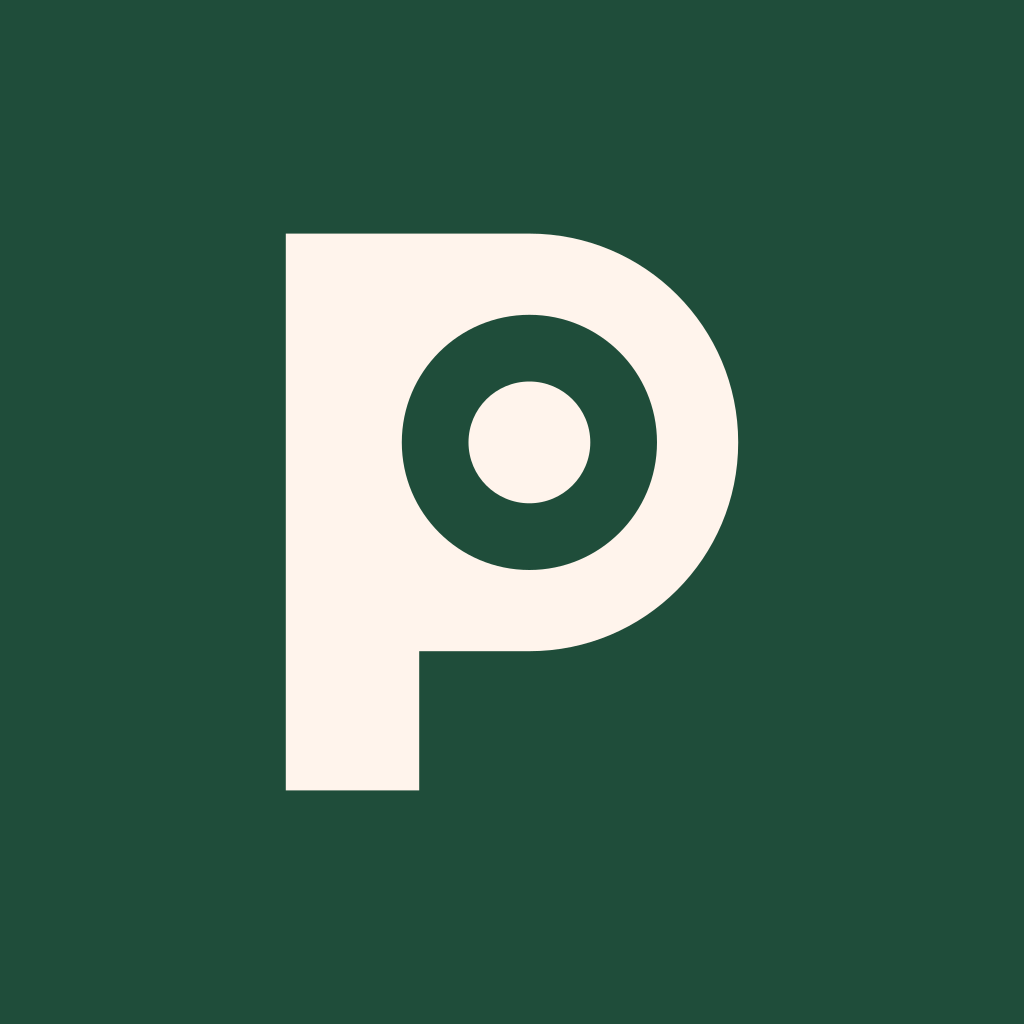
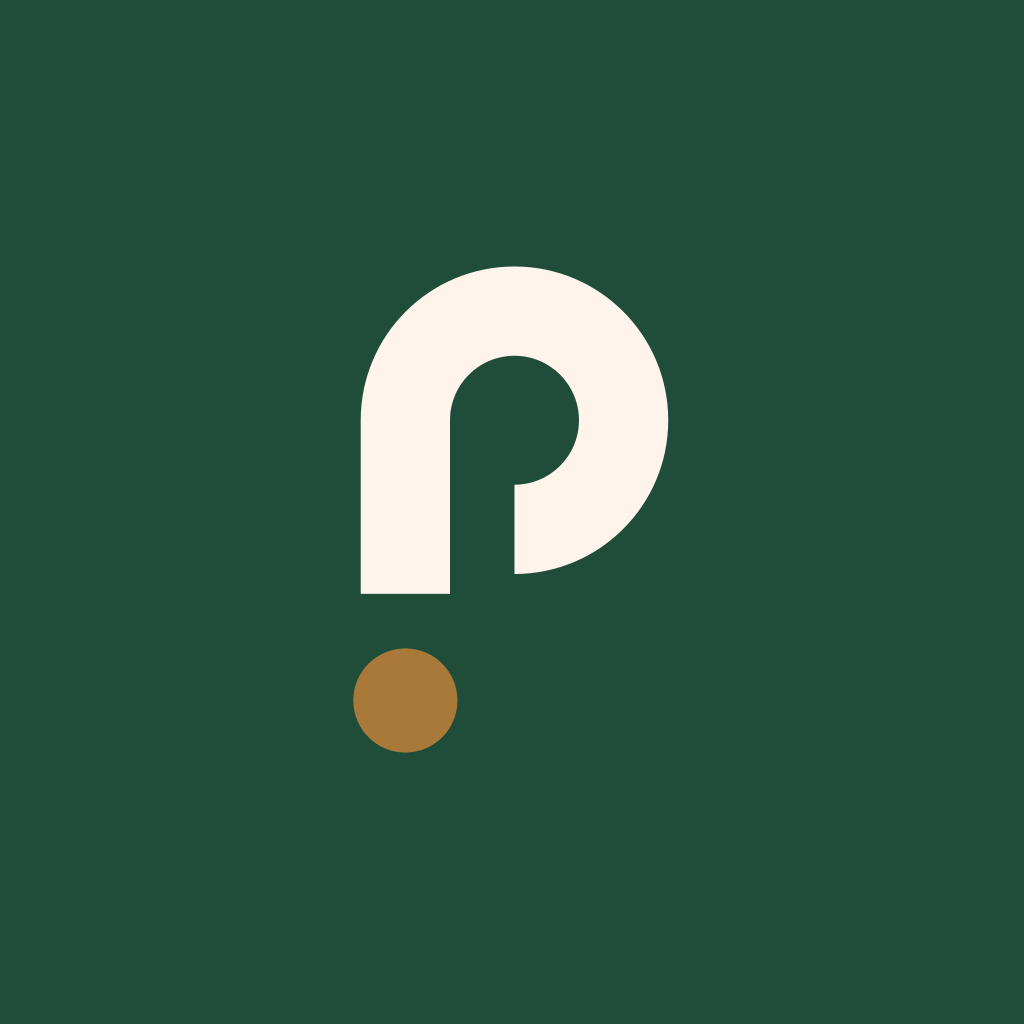
Brand: Ask P mark and logotype in the iOS app
The owner chose direction D: an open P that is also a question mark,
forest green with a brass dot (the asker). build-masters.py now draws it,
with a small cut (shorter stem, bigger dot) that keeps the dot apart at
16 px. PlugMark and PlugLogotype imagesets, the launch image, and the light
(forest), dark (espresso) and tinted app icons are regenerated with the
repo pipeline; PlugMarkShape follows the new geometry. The logotype is
cropped to its ink and set at 28pt. Web favicons are not regenerated.

State: P3.S6

Changed region(s): [[0.2812, 0.2188, 0.7188, 0.7812]]

diff --git a/ios/Plug/Core/DesignSystem/PlugTokens.swift b/ios/Plug/Core/DesignSystem/PlugTokens.swift
@@ -157,7 +157,8 @@ extension View {
 
 // MARK: - The mark
 
-/// The PLUG logotype, the same drawn artwork as the website (design/brand), set in espresso.
+/// The PLUG logotype (design/brand/plug-logotype.svg): the green and brass Ask P mark and "plug"
+/// in espresso, cropped to its ink so it aligns with the text column.
 /// A fixed-size brand lockup: `size` is its height, and content around it scales instead.
 struct PlugLogotype: View {
     var size: CGFloat = PlugTokens.Layout.mark
@@ -170,11 +171,12 @@ struct PlugLogotype: View {
 }
 
 struct PlugWordmark: View {
-    var body: some View { PlugLogotype(size: PlugTokens.Layout.logo) }
+    var body: some View { PlugLogotype(size: PlugTokens.Layout.mark) }
 }
 
-/// design/brand/plug-mark.svg on its 256 grid: a stem joined to a bowl, with the counter cut
-/// out (even-odd fill). The dot inside the counter is drawn separately: it is you.
+/// design/brand/plug-mark.svg on its 256 grid ("Ask P"): an open P that is also a question
+/// mark. The stem runs x 67..103 and the bowl is a 270 degree arc, outer radius 62 and inner 26,
+/// centred at (129, 91). The dot under the stem is drawn separately: it is the asker.
 struct PlugMarkShape: Shape {
     func path(in rect: CGRect) -> Path {
         let unit = min(rect.width, rect.height) / 256
@@ -182,31 +184,30 @@ struct PlugMarkShape: Shape {
             CGPoint(x: rect.minX + x * unit, y: rect.minY + y * unit)
         }
         var path = Path()
-        path.move(to: point(50, 32))
-        path.addLine(to: point(134, 32))
-        path.addRelativeArc(center: point(134, 104), radius: 72 * unit,
-                            startAngle: .degrees(-90), delta: .degrees(180))
-        path.addLine(to: point(96, 176))
-        path.addLine(to: point(96, 224))
-        path.addLine(to: point(50, 224))
+        path.move(to: point(67, 161))
+        path.addLine(to: point(67, 91))
+        path.addRelativeArc(center: point(129, 91), radius: 62 * unit, startAngle: .degrees(180), delta: .degrees(270))
+        path.addLine(to: point(129, 117))
+        path.addRelativeArc(center: point(129, 91), radius: 26 * unit, startAngle: .degrees(90), delta: .degrees(-270))
+        path.addLine(to: point(103, 161))
         path.closeSubpath()
-        path.addEllipse(in: CGRect(origin: point(90, 60), size: CGSize(width: 88 * unit, height: 88 * unit)))
         return path
     }
 }
 
-/// The mark with its dot, still. `dot` colours the dot (you) so it can read on any surface.
+/// The mark with its dot, still: forest green P and brass dot on light surfaces. On green or
+/// espresso pass `ink: paper` and keep the brass dot.
 struct PlugMark: View {
-    var ink: Color = PlugTokens.Color.ink900
-    var dot: Color = PlugTokens.Color.ink900
+    var ink: Color = PlugTokens.Color.brandGreen
+    var dot: Color = PlugTokens.Color.brandBrass
 
     var body: some View {
         GeometryReader { geometry in
             let unit = min(geometry.size.width, geometry.size.height) / 256
             ZStack(alignment: .topLeading) {
-                PlugMarkShape().fill(ink, style: FillStyle(eoFill: true))
+                PlugMarkShape().fill(ink)
                 Circle().fill(dot).frame(width: 42 * unit, height: 42 * unit)
-                    .position(x: 134 * unit, y: 104 * unit)
+                    .position(x: 85 * unit, y: 204 * unit)
             }
         }
         .aspectRatio(1, contentMode: .fit)

diff --git a/ios/Plug/Features/Authentication/WelcomeView.swift b/ios/Plug/Features/Authentication/WelcomeView.swift
@@ -64,7 +64,7 @@ struct WelcomeView: View {
                 .buttonStyle(.plain)
                 .accessibilityLabel("Back to welcome")
                 Spacer()
-                Button { page = .welcome; model.startOver() } label: { PlugLogotype(size: PlugTokens.Layout.logo) }
+                Button { page = .welcome; model.startOver() } label: { PlugLogotype(size: PlugTokens.Layout.mark) }
                     .buttonStyle(.plain).accessibilityLabel("PLUG home")
                     .frame(minHeight: PlugTokens.minTouchTarget)
                 Spacer()
@@ -101,7 +101,7 @@ struct WelcomeView: View {
                 .frame(maxWidth: .infinity)
                 .background(PlugTokens.Color.sunk.ignoresSafeArea(edges: .top))
             VStack(alignment: .leading, spacing: PlugTokens.Space.s4) {
-                PlugLogotype(size: PlugTokens.Layout.logo).accessibilityAddTraits(.isHeader)
+                PlugLogotype(size: PlugTokens.Layout.mark).accessibilityAddTraits(.isHeader)
                     .padding(.bottom, PlugTokens.Space.s2)
                 // What the app does leads; the tested tagline follows as its own text, words unchanged.
                 Text("Ask for a service, or about a place nearby.")

diff --git a/ios/Plug/App/PlugApp.swift b/ios/Plug/App/PlugApp.swift
@@ -34,7 +34,7 @@ struct PlugApp: App {
     }
 }
 
-/// The cold start: it begins where the static launch screen ends (the espresso mark on cream)
+/// The cold start: it begins where the static launch screen ends (the green and brass mark on cream)
 /// and fades away quickly. It never takes a touch or VoiceOver focus, and it does not run for UI
 /// tests or under Reduce Motion (the launch screen then simply gives way to the app).
 private struct LaunchSplash: View {
@@ -267,7 +267,7 @@ struct ProfileView: View {
                 VStack(alignment: .leading, spacing: PlugTokens.Space.s6) {
                     PageTitle(title: "Profile")
                     HStack(alignment: .center, spacing: PlugTokens.Space.s4) {
-                        PlugMark(ink: PlugTokens.Color.paper, dot: PlugTokens.Color.paper)
+                        PlugMark(ink: PlugTokens.Color.paper)
                             .padding(PlugTokens.Space.s4 + 2)
                             .frame(width: PlugTokens.Layout.portrait, height: PlugTokens.Layout.portrait)
                             .background(PlugTokens.Color.brandGreen, in: Circle())

diff --git a/ios/Plug/Features/Requests/AskView.swift b/ios/Plug/Features/Requests/AskView.swift
@@ -127,7 +127,7 @@ struct AskView: View {
     private var masthead: some View {
         HStack(alignment: .center) {
             // One logotype everywhere, the app and the website (owner decision, 2026-10-08).
-            PlugLogotype(size: PlugTokens.Layout.logo)
+            PlugLogotype(size: PlugTokens.Layout.mark)
             Spacer()
         }
         .padding(.top, PlugTokens.Space.s1)

diff --git a/design/brand/build-masters.py b/design/brand/build-masters.py
@@ -1,53 +1,56 @@
-"""Builds the PLUG brand SVG masters. Usage: python3 design/brand/build-masters.py design/brand "#2B1D14" "#FFF4EC" "#1F4D3A" (ink.900, paper, brand.green)"""
-import math, re, sys, pathlib
+"""Builds the PLUG brand SVG masters (direction D, "Ask P", chosen 2026-11-17).
+Usage: python3 design/brand/build-masters.py design/brand "#2B1D14" "#FFF4EC" "#1F4D3A" "#A9793A"
+(ink.900, paper, brand.green, brand.brass)"""
+import re, sys, pathlib
 
-if len(sys.argv) != 5 or not all(re.fullmatch(r"#[0-9A-Fa-f]{6}", c) for c in sys.argv[2:5]):
-    sys.exit('usage: build-masters.py <out-dir> <ink #RRGGBB> <paper #RRGGBB> <brand #RRGGBB>, e.g. design/brand "#2B1D14" "#FFF4EC" "#1F4D3A"')
-out = pathlib.Path(sys.argv[1]); INK, PAPER, BRAND = sys.argv[2], sys.argv[3], sys.argv[4]
+if len(sys.argv) != 6 or not all(re.fullmatch(r"#[0-9A-Fa-f]{6}", c) for c in sys.argv[2:6]):
+    sys.exit('usage: build-masters.py <out-dir> <ink> <paper> <green> <brass>, e.g. design/brand "#2B1D14" "#FFF4EC" "#1F4D3A" "#A9793A"')
+out = pathlib.Path(sys.argv[1]); INK, PAPER, GREEN, BRASS = sys.argv[2:6]
 
-# The mark: a P (stem + bowl, cap height 144 on a 256 grid, stem descends 48 below the bowl)
-# whose counter holds a dot: you, held by the P. Centred optically (x 50..206, y 32..224).
-OUTER = "M50 32H134A72 72 0 0 1 134 176H96V224H50Z"
-def hole(r): return f"M134 {104 - r}A{r} {r} 0 1 1 134 {104 + r}A{r} {r} 0 1 1 134 {104 - r}Z"
-MARK = (OUTER + hole(44), 21)      # ring 28, gap 23, dot 21
-SMALL = (OUTER + hole(41), 23)     # 24 px and below: thicker ring, bigger dot, gap 18
+# The mark: an open P that is also a question mark. One stroke width (36) and one radius pair:
+# the bowl is a 270 degree arc, outer radius 62 and inner 26, centred at (129, 91) on a 256
+# grid; the stem runs x 67..103. The brass dot under the stem is the asker.
+def p(stem_end):
+    return f"M67 {stem_end}V91A62 62 0 1 1 129 153V117A26 26 0 1 0 103 91V{stem_end}Z"
+def dot(cy, r):
+    return f"M{85 - r} {cy}A{r} {r} 0 1 0 {85 + r} {cy}A{r} {r} 0 1 0 {85 - r} {cy}Z"
+MARK = (p(161), dot(204, 21))      # gap 22 between stem and dot
+SMALL = (p(150), dot(207, 24))     # 24 px and below: shorter stem, bigger dot, gap 33, so the dot stays apart at 16 px
 
-def mark_body(fill, small=False):
-    d, r = SMALL if small else MARK
-    return f'<path fill="{fill}" fill-rule="evenodd" d="{d}"/><circle fill="{fill}" cx="134" cy="104" r="{r}"/>'
+def mark_body(fill, dot_fill=None, small=False):
+    letter, point = SMALL if small else MARK
+    return f'<path fill="{fill}" d="{letter}"/><path fill="{dot_fill or fill}" d="{point}"/>'
 
-def pt(cx, cy, R, deg):
-    a = math.radians(deg); return f"{cx + R * math.cos(a):.1f} {cy + R * math.sin(a):.1f}"
+# "plug" in Bricolage Grotesque (OFL), outlined, so no font ships. Baseline at y 177.
+WORD = ['M38.3336181640625 145.83306884765625 38.6669921875 -326.83172607421875 38.3336181640625 -524.9996337890625H166.16522216796875L163.33154296875 -360.332763671875H170.49822998046875Q181.998291015625 -421.3330078125 204.9984130859375 -460.99969482421875Q227.99853515625 -500.6663818359375 262.9152526855469 -519.8330078125Q297.83197021484375 -538.9996337890625 345.49847412109375 -538.9996337890625Q406.49835205078125 -538.9996337890625 450.5817565917969 -508.0830383300781Q494.6651611328125 -477.16644287109375 518.165283203125 -416.16650390625Q541.6654052734375 -355.16656494140625 541.6654052734375 -264.66650390625Q541.6654052734375 -169.0 515.9987182617188 -107.25003051757812Q490.33203125 -45.50006103515625 446.16534423828125 -15.8333740234375Q401.9986572265625 13.83331298828125 345.83197021484375 13.83331298828125Q298.9984130859375 13.83331298828125 263.5816345214844 -6.50018310546875Q228.16485595703125 -26.83367919921875 205.41482543945312 -67.91720581054688Q182.664794921875 -109.000732421875 173.83148193359375 -170.0008544921875L164.49810791015625 -169.83416748046875Q169.83148193359375 -137.0003662109375 173.91482543945312 -104.25021362304688Q177.9981689453125 -71.50006103515625 180.41482543945312 -41.083404541015625Q182.83148193359375 -10.666748046875 182.83148193359375 16.9998779296875V145.83306884765625ZM293.49969482421875 -106.16510009765625Q327.6666259765625 -106.16510009765625 350.4169006347656 -126.83184814453125Q373.16717529296875 -147.49859619140625 384.33404541015625 -182.58224487304688Q395.50091552734375 -217.6658935546875 395.50091552734375 -259.83331298828125Q395.50091552734375 -304.00048828125 383.9174499511719 -338.9174499511719Q372.333984375 -373.83441162109375 349.66705322265625 -394.33453369140625Q327.0001220703125 -414.83465576171875 293.6663818359375 -414.83465576171875Q269.83245849609375 -414.83465576171875 249.41549682617188 -404.33441162109375Q228.99853515625 -393.83416748046875 213.9984130859375 -374.167236328125Q198.998291015625 -354.50030517578125 190.41494750976562 -326.6668701171875Q181.83160400390625 -298.83343505859375 181.83160400390625 -263.333740234375V-256.16693115234375Q181.83160400390625 -229.0006103515625 187.49822998046875 -206.16717529296875Q193.16485595703125 -183.333740234375 203.16485595703125 -164.75009155273438Q213.16485595703125 -146.16644287109375 227.16497802734375 -132.9993896484375Q241.16510009765625 -119.83233642578125 257.9154357910156 -112.99871826171875Q274.665771484375 -106.16510009765625 293.49969482421875 -106.16510009765625Z', 'M584.6669921875 0.0V-694.9993896484375H728.9981689453125V0.0Z', 'M951.8338012695312 13.83331298828125Q864.5003051757812 13.83331298828125 822.9169616699219 -47.6668701171875Q781.3336181640625 -109.16705322265625 781.3336181640625 -236.83416748046875V-524.9996337890625H925.8314819335938V-238.50079345703125Q925.8314819335938 -169.99951171875 944.4150695800781 -141.74887084960938Q962.9986572265625 -113.49822998046875 1000.4994506835938 -113.49822998046875Q1025.8331909179688 -113.49822998046875 1046.5001220703125 -126.24838256835938Q1067.1670532226562 -138.99853515625 1082.3338623046875 -165.08218383789062Q1097.5006713867188 -191.16583251953125 1105.500732421875 -232.08297729492188Q1113.5007934570312 -273.0001220703125 1113.5007934570312 -330.3341064453125V-524.9996337890625H1257.8319702148438V-244.50079345703125L1258.1653442382812 0.0H1133.5003051757812L1137.1674194335938 -209.6671142578125H1129.8340454101562Q1123.0006103515625 -131.50030517578125 1101.5838928222656 -82.25021362304688Q1080.1671752929688 -33.0001220703125 1043.0838317871094 -9.583404541015625Q1006.00048828125 13.83331298828125 951.8338012695312 13.83331298828125Z', 'M1522.1668090820312 156.3331298828125Q1433.5001831054688 156.3331298828125 1382.1669311523438 142.41647338867188Q1330.8336791992188 128.49981689453125 1309.2503967285156 104.24984741210938Q1287.6671142578125 79.9998779296875 1287.6671142578125 48.49993896484375Q1287.6671142578125 5.0 1322.5837707519531 -21.916717529296875Q1357.5004272460938 -48.83343505859375 1425.8339233398438 -59.6668701171875V-65.6669921875Q1373.1670532226562 -65.6669921875 1344.4170837402344 -82.00018310546875Q1315.6671142578125 -98.3333740234375 1315.6671142578125 -128.49993896484375Q1315.6671142578125 -156.66650390625 1342.1671142578125 -178.6663818359375Q1368.6671142578125 -200.666259765625 1429.8339233398438 -203.6666259765625V-211.3333740234375Q1373.1669311523438 -223.333251953125 1341.1669311523438 -260.5832824707031Q1309.1669311523438 -297.83331298828125 1309.1669311523438 -355.3331298828125Q1309.1669311523438 -406.6663818359375 1335.8336181640625 -444.49969482421875Q1362.5003051757812 -482.3330078125 1412.9169006347656 -503.66632080078125Q1463.33349609375 -524.9996337890625 1534.1665649414062 -524.9996337890625H1795.999755859375V-412.0009765625L1617.1666870117188 -434.83428955078125V-426.334228515625Q1696.3328857421875 -415.0008544921875 1725.4161682128906 -387.4173889160156Q1754.4994506835938 -359.83392333984375 1754.4994506835938 -321.50042724609375Q1754.4994506835938 -283.3336181640625 1731.6660766601562 -253.25015258789062Q1708.8327026367188 -223.16668701171875 1662.0827331542969 -206.08328247070312Q1615.332763671875 -188.9998779296875 1544.4995727539062 -188.9998779296875Q1523.4996948242188 -188.9998779296875 1502.833251953125 -190.83319091796875Q1482.1668090820312 -192.66650390625 1465.8334350585938 -196.66650390625Q1442.9993896484375 -187.83294677734375 1432.0825500488281 -178.91610717773438Q1421.1657104492188 -169.999267578125 1421.1657104492188 -161.6658935546875Q1421.1657104492188 -155.83245849609375 1426.4992065429688 -152.99908447265625Q1431.8327026367188 -150.16571044921875 1441.3329467773438 -149.16571044921875Q1450.8331909179688 -148.16571044921875 1462.666748046875 -148.16571044921875H1621.8333129882812Q1641.66650390625 -148.16571044921875 1672.8331298828125 -145.74905395507812Q1703.999755859375 -143.3323974609375 1735.499755859375 -131.165771484375Q1766.999755859375 -118.9991455078125 1788.1664428710938 -90.91592407226562Q1809.3331298828125 -62.83270263671875 1809.3331298828125 -11.3328857421875Q1809.3331298828125 46.33349609375 1778.0831604003906 83.25003051757812Q1746.8331909179688 120.16656494140625 1683.4165954589844 138.24984741210938Q1620.0 156.3331298828125 1522.1668090820312 156.3331298828125ZM1520.333251953125 29.50164794921875Q1590.000244140625 29.50164794921875 1625.0006103515625 24.084869384765625Q1660.0009765625 18.6680908203125 1672.0845642089844 8.6678466796875Q1684.1681518554688 -1.3323974609375 1684.1681518554688 -14.49945068359375Q1684.1681518554688 -30.49969482421875 1675.2513732910156 -39.49981689453125Q1666.3345947265625 -48.49993896484375 1652.667724609375 -52.416656494140625Q1639.0008544921875 -56.3333740234375 1625.0838928222656 -57.00006103515625Q1611.1669311523438 -57.666748046875 1600.9998779296875 -57.666748046875H1467.5000610351562Q1430.8328247070312 -44.66650390625 1417.2492370605469 -33.4996337890625Q1403.6656494140625 -22.332763671875 1403.6656494140625 -7.3323974609375Q1403.6656494140625 9.16790771484375 1418.3324584960938 16.918060302734375Q1432.999267578125 24.668212890625 1459.2494812011719 27.084930419921875Q1485.4996948242188 29.50164794921875 1520.333251953125 29.50164794921875ZM1536.9998779296875 -270.3323974609375Q1574.5005493164062 -270.3323974609375 1595.7510070800781 -292.0826110839844Q1617.00146484375 -313.83282470703125 1617.00146484375 -351.49981689453125Q1617.00146484375 -389.33349609375 1595.0009765625 -412.66705322265625Q1573.00048828125 -436.0006103515625 1535.4998168945312 -436.0006103515625Q1498.1657104492188 -436.0006103515625 1475.7485656738281 -412.5003662109375Q1453.3314208984375 -389.0001220703125 1453.3314208984375 -351.9998779296875Q1453.3314208984375 -327.3330078125 1463.4150085449219 -308.83282470703125Q1473.4985961914062 -290.3326416015625 1492.3323364257812 -280.33251953125Q1511.1660766601562 -270.3323974609375 1536.9998779296875 -270.3323974609375Z']
+def word_body(fill):
+    return (f'<g transform="translate(235.90 177.00) scale(0.15926)">'
+            + "".join(f'<path fill="{fill}" d="{d}"/>' for d in WORD) + "</g>")
 
-# LUG, drawn to the mark: cap height 144 (y 32..176), stems 44, rounds overshoot by 2.
-L = "M0 32H44V136H100V176H0Z"
-U = "M0 32H44V112A22 22 0 0 0 88 112V32H132V112A66 66 0 0 1 0 112Z"
-G_RING = f"M{pt(74, 104, 74, -45)}A74 74 0 1 0 {pt(74, 104, 74, 0)}L{pt(74, 104, 30, 0)}A30 30 0 1 1 {pt(74, 104, 30, -45)}Z"
-G_BAR = "M90 104H148V140H90Z"
-
-def word_body(fill, x0):
-    return (f'<g fill="{fill}"><path transform="translate({x0} 0)" d="{L}"/>'
-            f'<path transform="translate({x0 + 124} 0)" d="{U}"/>'
-            f'<g transform="translate({x0 + 280} 0)"><path d="{G_RING}"/><path d="{G_BAR}"/></g></g>')
-
-def svg(vb, body, title):
+def svg(vb, body, title="PLUG"):
     return (f'<svg xmlns="http://www.w3.org/2000/svg" viewBox="{vb}" role="img" aria-label="{title}">'
             f'<title>{title}</title>{body}</svg>\n')
 
+# The logotype is cropped to its ink (x 64..524, y 29..225) plus an 8 unit margin, so it aligns
+# with the text column and sizes by its own height.
+LOGO = "56 21 476 212"
+def icon(bg, mark):
+    # Mark centred in the iOS safe area at 62% of the tile.
+    return svg("0 0 1024 1024", f'<rect width="1024" height="1024" fill="{bg}"/><g transform="translate(194.56 194.56) scale(2.48)">{mark}</g>')
+
 files = {
-    "plug-mark.svg": svg("0 0 256 256", mark_body(INK), "PLUG"),
-    "plug-mark-small.svg": svg("0 0 256 256", mark_body(INK, small=True), "PLUG"),
-    "plug-mark-reversed.svg": svg("0 0 256 256", f'<rect width="256" height="256" fill="{INK}"/>' + mark_body(PAPER), "PLUG"),
-    "plug-mark-mono.svg": svg("0 0 256 256", mark_body("#000000"), "PLUG"),
-    # Logotype: the mark is the P, then LUG. 28 units between P and L, 24 between letters.
-    "plug-logotype.svg": svg("34 0 674 256", mark_body(INK) + word_body(INK, 234), "PLUG"),
-    "plug-logotype-reversed.svg": svg("34 0 674 256", f'<rect x="34" width="674" height="256" fill="{INK}"/>' + mark_body(PAPER) + word_body(PAPER, 234), "PLUG"),
-    "plug-logotype-mono.svg": svg("34 0 674 256", mark_body("#000000") + word_body("#000000", 234), "PLUG"),
-    # App icon masters (1024), mark centred in the iOS safe area: a cream mark on forest green
-    # (light, 8.9:1) and a cream mark on espresso (dark, 15:1).
-    "app-icon.svg": svg("0 0 1024 1024", f'<rect width="1024" height="1024" fill="{BRAND}"/><g transform="translate(140.8 140.8) scale(2.9)">{mark_body(PAPER)}</g>', "PLUG"),
-    "app-icon-dark.svg": svg("0 0 1024 1024", f'<rect width="1024" height="1024" fill="{INK}"/><g transform="translate(140.8 140.8) scale(2.9)">{mark_body(PAPER)}</g>', "PLUG"),
-    "app-icon-tinted.svg": svg("0 0 1024 1024", f'<rect width="1024" height="1024" fill="#000000"/><g transform="translate(140.8 140.8) scale(2.9)">{mark_body("#FFFFFF")}</g>', "PLUG"),
+    "plug-mark.svg": svg("0 0 256 256", mark_body(GREEN, BRASS)),
+    "plug-mark-small.svg": svg("0 0 256 256", mark_body(GREEN, BRASS, small=True)),
+    "plug-mark-reversed.svg": svg("0 0 256 256", f'<rect width="256" height="256" fill="{INK}"/>' + mark_body(PAPER, BRASS)),
+    "plug-mark-mono.svg": svg("0 0 256 256", mark_body("#000000")),
+    "plug-logotype.svg": svg(LOGO, mark_body(GREEN, BRASS) + word_body(INK)),
+    "plug-logotype-reversed.svg": svg(LOGO, f'<rect x="56" y="21" width="476" height="212" fill="{INK}"/>' + mark_body(PAPER, BRASS) + word_body(PAPER)),
+    "plug-logotype-mono.svg": svg(LOGO, mark_body("#000000") + word_body("#000000")),
+    # App icons: cream mark and brass dot on forest green (light) or espresso (dark); one colour
+    # for tinted, which the system recolours.
+    "app-icon.svg": icon(GREEN, mark_body(PAPER, BRASS)),
+    "app-icon-dark.svg": icon(INK, mark_body(PAPER, BRASS)),
+    "app-icon-tinted.svg": icon("#000000", mark_body("#FFFFFF")),
 }
 for name, text in files.items():
     (out / name).write_text(text)

diff --git a/design/brand/README.md b/design/brand/README.md
@@ -1,6 +1,6 @@
 # PLUG brand
 
-The PLUG mark is a P whose counter holds a dot: you, held by the P, with the people near you in the ring around you. It is espresso ink on cream. Since the Espresso editorial direction (2026-11-16, replacing Signal) the brand colour is forest green (`brand.green`), used behind the mark on the app icon and for actions, never inside the mark.
+The PLUG mark is "Ask P" (direction D, chosen by the owner on 2026-11-17): an open P that is also a question mark, so the mark is the app's core action, asking. The P is forest green (`brand.green`) and the dot under it is brass (`brand.brass`): the asker. The logotype sets "plug" in espresso beside it.
 
 These SVG files are the masters. Do not redraw the mark, add effects to it, or put a raster copy in front of a vector one.
 
@@ -9,30 +9,29 @@ These SVG files are the masters. Do not redraw the mark, add effects to it, or p
 | File | Use |
 | --- | --- |
 | `plug-mark.svg` | The mark, 24 px and above |
-| `plug-mark-small.svg` | The small-size cut, at 24 px and below: a thicker ring, a bigger dot and a narrower gap, so the counter stays open at 16 px. The favicon uses it |
-| `plug-mark-mono.svg`, `plug-mark-reversed.svg` | One colour (black), and paper on ink |
-| `plug-logotype.svg` | The logotype: the mark stands in for the letter P, followed by LUG drawn to match it. This is the primary logo |
-| `plug-logotype-mono.svg`, `plug-logotype-reversed.svg` | One colour, and paper on ink |
-| `app-icon.svg`, `app-icon-dark.svg`, `app-icon-tinted.svg` | App icon masters for the iOS light (cream mark on forest green), dark (cream mark on espresso) and tinted (white on black, the system tints it) appearances |
+| `plug-mark-small.svg` | The small-size cut, at 24 px and below: a shorter stem and a bigger dot (gap 33), so the dot stays apart from the stem at 16 px. The favicon uses it |
+| `plug-mark-mono.svg`, `plug-mark-reversed.svg` | One colour (black), and cream P with the brass dot on espresso |
+| `plug-logotype.svg` | The logotype: the mark, then "plug" in Bricolage Grotesque (OFL), outlined. Cropped to its ink plus 8 units. This is the primary logo |
+| `plug-logotype-mono.svg`, `plug-logotype-reversed.svg` | One colour, and cream on espresso |
+| `app-icon.svg`, `app-icon-dark.svg`, `app-icon-tinted.svg` | App icon masters for the iOS light (cream P, brass dot on forest green), dark (the same on espresso) and tinted (white on black, the system tints it) appearances |
 | `app-icon/AppIcon-*.png` | Every iOS icon size (20 to 1024), exported |
-| `neighbourhood.svg` | Line illustration on the welcome screen, in `rule.300` |
-| `build-masters.py` | Rebuilds the SVG masters: `python3 design/brand/build-masters.py design/brand "#2B1D14" "#FFF4EC" "#1F4D3A"` (ink.900, paper, brand.green) |
+| `neighbourhood.svg` | Line illustration, in `rule.300` (not shown in the app) |
+| `build-masters.py` | Rebuilds the SVG masters: `uv run python design/brand/build-masters.py design/brand "#2B1D14" "#FFF4EC" "#1F4D3A" "#A9793A"` (ink.900, paper, brand.green, brand.brass) |
 
 Export to the apps with `node design/generate-brand.mjs` (both targets), `--web` (favicon.ico, icon.svg, apple-icon, PWA icons, the icon size set) or `--ios` (asset catalog). The script refuses any colour that is not a token.
 
-There is no stacked lockup. The mark already is the P, so stacking it above the word would read "P PLUG". Use the logotype, or the mark alone where the space is square.
-
 ## Construction
 
-Everything sits on a 256-unit grid.
+Everything sits on a 256-unit grid. One stroke width (36) and one centre.
 
-- The stem runs from x 50 to 96 (46 wide) and from y 32 to 224. The bowl is a half-circle of radius 72 centred at (134, 104), on a cap height of 144 (y 32 to 176). The stem drops 48 below the bowl, a descender that carries on the old cable tail.
-- The counter is a circle of radius 44 and the dot a circle of radius 21, both at (134, 104).
-- In LUG, stems are 44 and the cap height is 144. Rounds overshoot the baseline by 2. The G's bar runs from y 104 to 140 and ends square as a spur. The gaps are 28 from P to L and 24 between letters.
+- The stem runs from x 67 to 103 and from y 91 down to 161.
+- The bowl is a 270 degree arc centred at (129, 91), outer radius 62 and inner radius 26, ending in a short spur back up to y 117.
+- The dot has radius 21 at (85, 204), 22 units under the stem. The small cut ends the stem at 150 and uses radius 24 at (85, 207).
+- In the logotype the word sits on a baseline at y 177, from x 236.
 
 ## Clear space
 
-Keep clear space on every side equal to the dot's diameter (42 units, 16% of the mark's height). Nothing else (text, edges, other marks) goes inside it.
+Keep clear space on every side equal to the dot's diameter (42 units). Nothing else goes inside it.
 
 ## Minimum size
 
@@ -43,23 +42,15 @@ Keep clear space on every side equal to the dot's diameter (42 units, 16% of the
 
 ## Colour
 
-- The mark and logotype: espresso `#2B1D14` (`ink.900`) on cream `#FFF4EC` (`paper`) or card `#FFFAF4`. The logotype is always espresso (or reversed, or one colour).
-- On forest green `#1F4D3A` (`brand.green`): the mark in cream only (8.9:1). This is the light app icon.
-- Reversed: cream on espresso (15:1). This is also the dark app icon.
-- One colour: black or white.
-- Never espresso on green (1.7:1) and never pink.
-
-Never use a truth colour, a gradient, a shadow, an outline or glass on the mark.
+- The mark: forest green `#1F4D3A` P with a brass `#A9793A` dot, on cream `#FFF4EC` or card.
+- On forest green or espresso: a cream P with the brass dot. These are the light and dark app icons.
+- The word "plug" is espresso `#2B1D14` on light surfaces and cream on dark ones.
+- One colour: black or white, P and dot together.
+- Never a truth colour, a gradient, a shadow, an outline or glass on the mark.
 
 ## Motion
 
-The mark has one animation, under 1.1 s (`motion.reveal`), played once in the web hero (the iOS launch is a plain fade from the mark on cream):
-
-1. The dot appears (0 to 240 ms).
-2. A ring grows from it and fades (200 to 600 ms).
-3. The P closes around it (450 to 1100 ms).
-
-It says: you, then the people around you, connected by PLUG. Under Reduce Motion (iOS) or `prefers-reduced-motion` (web), the final frame shows immediately. The mark does not loop, and nothing else in PLUG animates on load.
+The iOS launch is a plain fade from the mark on cream. Under Reduce Motion the app simply appears. The mark does not loop.
 
 ## Misuse
 
@@ -67,7 +58,7 @@ Do not:
 
 - stretch, rotate or outline the mark;
 - set "PLUG" in a font next to the mark;
-- use the dot or ring as a decoration, a bullet or a loader (a circle means a person);
+- separate the dot from the P, or use the dot alone as a decoration or bullet (it means a person);
 - put the mark on a photo or busy background;
 - use the old v3 blue P (`#0B57E3`).
 
